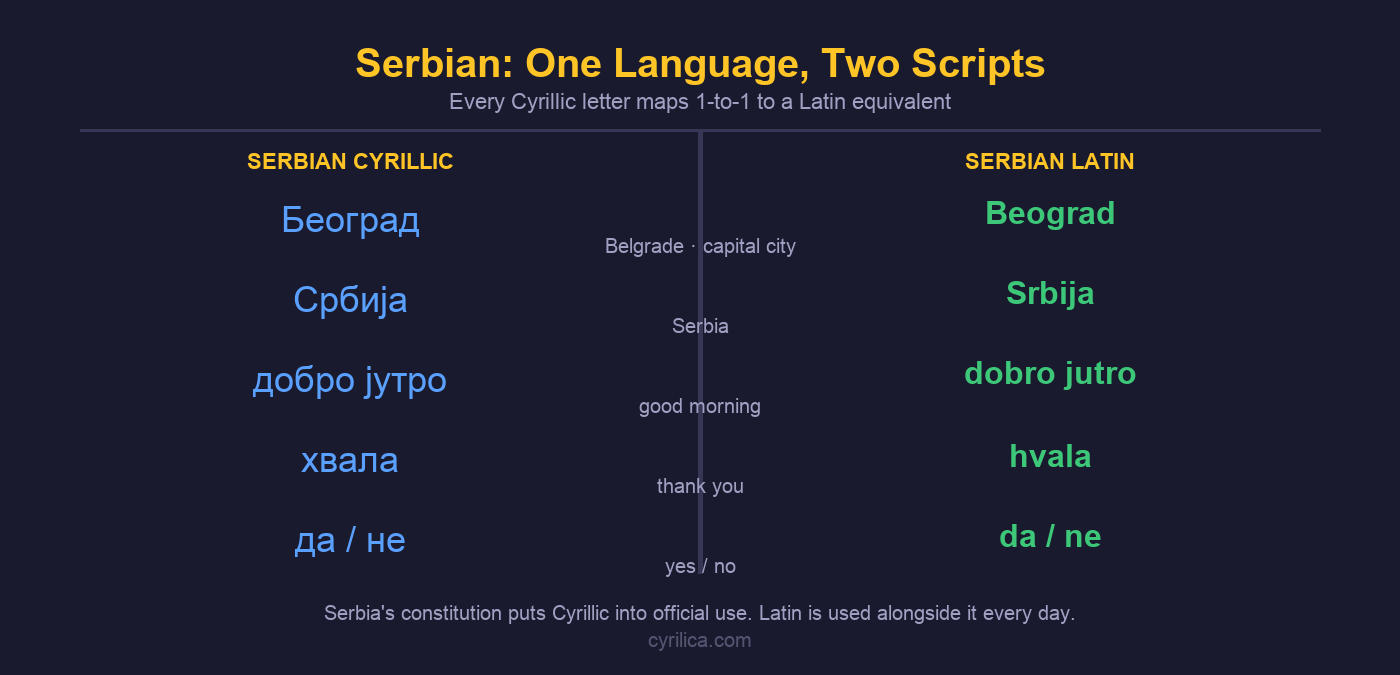
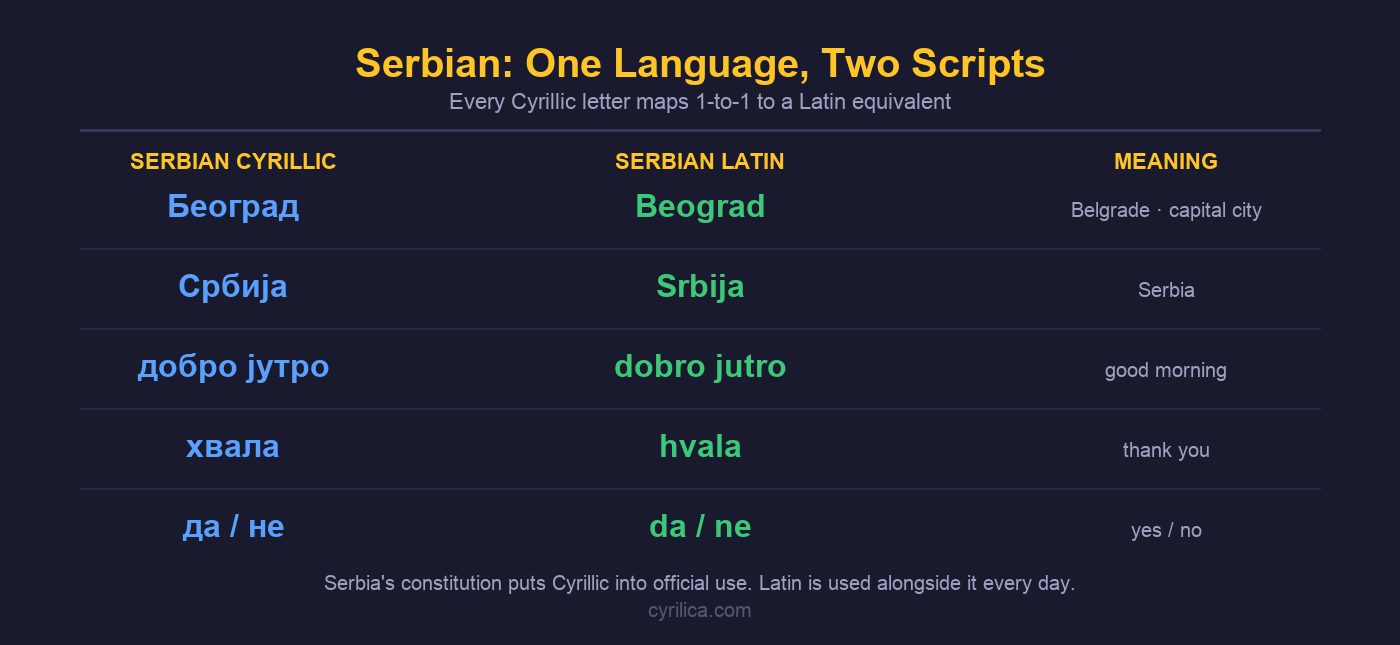
Rebuild Serbian word-pairs image on shared baselines
Three defects in one image, all of them geometry. Each of the three elements
in a row was positioned from a different reference point, and none of them
was a baseline.

- The English meaning sat 21px below the word baseline on every row, about
  half the 80px row pitch, because it was placed below a constant taken from
  the ink height of "Београд".
- The vertical divider ran x 698 to 702 down the whole rows block, a 162px
  unbroken run, and every meaning was centred at x 700. All five crossed it.
- The Latin sat 5 to 8px above the Cyrillic, and the amount changed between
  rows. The old code centred the Latin's ink box inside that same constant,
  and the correction depends on each Latin string's own ascenders and
  descenders, so the Latin column's baseline shifted 3px between row 3 and
  row 4 independently of the Cyrillic.

Rebuilt as three columns, Serbian Cyrillic | Serbian Latin | meaning, with
one shared baseline per row via layout.baseline_row. Measured on the
rendered PNG, all three elements now land on the identical pixel row in
every row: spread 0px throughout, against 8 and 21 before. The divider is
gone; rows are separated by a faint rule that sits in the gap between them,
and no glyph touches one. The longest vertical run of line-coloured pixels
in the rows block falls from 162px to 17px, which is antialiased text stem
rather than a line.

Both word columns are now Arial Bold 32px. One font file for the two scripts
[…]

diff --git a/js/core.js b/js/core.js
@@ -442,7 +442,7 @@ const ARTICLE_META = {
     'bulgarian-alphabet':       { section: 'Alphabet Variants',         published: '2026-05-23', modified: '2026-09-28', keywords: ['bulgarian alphabet', 'bulgarian cyrillic', '30 letters', 'cyrillic origin', 'bulgarian letters', 'learn bulgarian'] },
     'montenegrin-alphabet':     { section: 'Alphabet Variants',         published: '2026-02-22', modified: '2026-09-18', keywords: ['montenegrin alphabet', 'newest cyrillic', 'montenegrin language', 'balkan alphabet'] },
     'cyrillic-letters-not-in-russian': { section: 'Alphabet Variants',         published: '2026-06-21', modified: '2026-09-20', keywords: ['cyrillic letters not in russian', 'non-russian cyrillic', 'ukrainian serbian macedonian letters', 'cyrillic alphabet differences'] },
-    'serbian-cyrillic-vs-latin':{ section: 'Alphabet Variants',         published: '2026-02-24', modified: '2026-09-25', keywords: ['serbian cyrillic', 'serbian latin', 'digraphia', 'dual script'] },
+    'serbian-cyrillic-vs-latin':{ section: 'Alphabet Variants',         published: '2026-02-24', modified: '2026-09-28', keywords: ['serbian cyrillic', 'serbian latin', 'digraphia', 'dual script'] },
     // History & Culture
     'lost-letters':             { section: 'History & Culture',         published: '2026-02-16', modified: '2026-09-20', keywords: ['lost letters', 'extinct characters', 'cyrillic history', 'old church slavonic'] },
     'glagolitic':               { section: 'History & Culture',         published: '2026-02-16', modified: '2026-09-18', keywords: ['glagolitic', 'old alphabet', 'saints cyril methodius', 'slavic writing'] },

diff --git a/js/articles.js b/js/articles.js
@@ -2564,7 +2564,7 @@ const ARTICLES = [
                 <img src="/images/serbian-cyrillic-vs-latin.png"
                      alt="Serbian Cyrillic and Latin script side-by-side comparison showing common words: Београд/Beograd, Србија/Srbija, добро јутро/dobro jutro, хвала/hvala"
                      style="max-width: 600px; width: 100%;"
-                     width="1400" height="675"
+                     width="1400" height="645"
                      loading="lazy">
             </figure>
 

diff --git a/scripts/images/make_serbian_image.py b/scripts/images/make_serbian_image.py
@@ -2,6 +2,8 @@ import os
 
 from PIL import Image, ImageDraw, ImageFont
 
+import layout
+
 # Repo root, resolved from this file so the script runs from any directory.
 ROOT = os.path.dirname(os.path.dirname(os.path.dirname(os.path.abspath(__file__))))
 
@@ -13,21 +15,21 @@ BG        = (26, 26, 46)
 GOLD      = (255, 196, 37)
 CYR_COL   = (90, 160, 255)
 LAT_COL   = (60, 200, 120)
-WHITE     = (255, 255, 255)
 SUBTEXT   = (160, 160, 195)
 DIVIDER   = (55, 55, 85)
+ROW_RULE  = (40, 40, 66)     # fainter than DIVIDER, sits in the gap between rows
 WATERMARK = (85, 85, 115)
 
 SUPP = "/System/Library/Fonts/Supplemental/"
-UNI  = "/Library/Fonts/Arial Unicode.ttf"
 
-font_title   = ImageFont.truetype(SUPP + "Arial Bold.ttf",  20 * SCALE)
-font_sub     = ImageFont.truetype(SUPP + "Arial.ttf",       11 * SCALE)
-font_col_hdr = ImageFont.truetype(SUPP + "Arial Bold.ttf",  11 * SCALE)
-font_cyril   = ImageFont.truetype(UNI,                       18 * SCALE)
-font_latin   = ImageFont.truetype(SUPP + "Arial Bold.ttf",  16 * SCALE)
-font_meaning = ImageFont.truetype(SUPP + "Arial.ttf",       10 * SCALE)
-font_wm      = ImageFont.truetype(SUPP + "Arial.ttf",       10 * SCALE)
+font_title   = ImageFont.truetype(SUPP + "Arial Bold.ttf", 20 * SCALE)
+font_sub     = ImageFont.truetype(SUPP + "Arial.ttf",      11 * SCALE)
+font_col_hdr = ImageFont.truetype(SUPP + "Arial Bold.ttf", 11 * SCALE)
+# One font file for both word columns, so the two scripts share metrics exactly
+# instead of being reconciled by an offset, which is what drifted before.
+font_word    = ImageFont.truetype(SUPP + "Arial Bold.ttf", 16 * SCALE)
+font_meaning = ImageFont.truetype(SUPP + "Arial.ttf",      10 * SCALE)
+font_wm      = ImageFont.truetype(SUPP + "Arial.ttf",      10 * SCALE)
 
 # (Cyrillic, Latin, English meaning)
 pairs = [
@@ -46,29 +48,25 @@ def text_h(text, font):
     bb = _d.textbbox((0, 0), text, font=font)
     return bb[3] - bb[1]
 
-def text_w(text, font):
-    bb = _d.textbbox((0, 0), text, font=font)
-    return bb[2] - bb[0]
-
 # ── vertical layout ────────────────────────────────────────────────
-PAD          = 20 * SCALE
-TITLE_Y      = PAD
-title_h      = text_h("Serbian", font_title)
-SUB_Y        = TITLE_Y + title_h + 10 * SCALE   # 10px breathing room
-sub_h        = text_h("sub", font_sub)
-HDR_DIV_Y    = SUB_Y + sub_h + 12 * SCALE
-COL_HDR_Y    = HDR_DIV_Y + 10 * SCALE
-col_hdr_h    = text_h("CYRILLIC", font_col_hdr)
+PAD       = 20 * SCALE
+TITLE_Y   = PAD
+SUB_Y     = TITLE_Y + text_h("Serbian", font_title) + 10 * SCALE
+HDR_DIV_Y = SUB_Y + text_h("sub", font_sub) + 12 * SCALE
+COL_HDR_Y = HDR_DIV_Y + 10 * SCALE
 
-WORD_H       = text_h("Београд", font_cyril)
-MEAN_H       = text_h("meaning", font_meaning)
-ROW_H        = WORD_H + 4 * SCALE + MEAN_H   # word + gap + meaning
-ROW_GAP      = 10 * SCALE
-ROWS_START_Y = COL_HDR_Y + col_hdr_h + 14 * SCALE
+# Rows sit on shared baselines, so the pitch comes from how far the row's ink
+# actually reaches either side of the baseline, not from a sample string.
+ROW_ITEMS = ([(c, font_word) for c, _, _ in pairs]
+             + [(l, font_word) for _, l, _ in pairs]
+             + [(m, font_meaning) for _, _, m in pairs])
+ABOVE, BELOW = layout.row_extent(_d, ROW_ITEMS)
 
-rows_total_h = len(pairs) * ROW_H + (len(pairs) - 1) * ROW_GAP
+PITCH        = 40 * SCALE
+FIRST_BASE_Y = COL_HDR_Y + text_h("CYRILLIC", font_col_hdr) + 14 * SCALE + ABOVE
+LAST_BASE_Y  = FIRST_BASE_Y + (len(pairs) - 1) * PITCH
 
-NOTE_Y = ROWS_START_Y + rows_total_h + 14 * SCALE
+NOTE_Y = LAST_BASE_Y + BELOW + 14 * SCALE
 WM_Y   = NOTE_Y + text_h("note", font_meaning) + 6 * SCALE
 H      = WM_Y + text_h("cyrilica.com", font_wm) + 14 * SCALE
 
@@ -79,9 +77,7 @@ def cx(text, font, x_center):
     bb = draw.textbbox((0, 0), text, font=font)
     return x_center - (bb[2] - bb[0]) // 2
 
-mid_x   = W // 2
-col_cyr = W // 4
-col_lat = 3 * W // 4
+col_cyr, col_lat, col_mean = W // 6, W // 2, 5 * W // 6
 
 # ── draw ───────────────────────────────────────────────────────────
 draw.text((cx("Serbian: One Language, Two Scripts", font_title, W // 2), TITLE_Y),
@@ -91,20 +87,20 @@ draw.text((cx("Every Cyrillic letter maps 1-to-1 to a Latin equivalent", font_su
           "Every Cyrillic letter maps 1-to-1 to a Latin equivalent", font=font_sub, fill=SUBTEXT)
 
 draw.rectangle([(40 * SCALE, HDR_DIV_Y), (W - 40 * SCALE, HDR_DIV_Y + SCALE)], fill=DIVIDER)
-draw.rectangle([(mid_x - SCALE, HDR_DIV_Y), (mid_x + SCALE, ROWS_START_Y + rows_total_h)], fill=DIVIDER)
 
-draw.text((cx("SERBIAN CYRILLIC", font_col_hdr, col_cyr), COL_HDR_Y),
-          "SERBIAN CYRILLIC", font=font_col_hdr, fill=GOLD)
-draw.text((cx("SERBIAN LATIN", font_col_hdr, col_lat), COL_HDR_Y),
-          "SERBIAN LATIN", font=font_col_hdr, fill=GOLD)
+for label, x in [("SERBIAN CYRILLIC", col_cyr), ("SERBIAN LATIN", col_lat), ("MEANING", col_mean)]:
+    draw.text((cx(label, font_col_hdr, x), COL_HDR_Y), label, font=font_col_hdr, fill=GOLD)
 
 for i, (cyr, lat, meaning) in enumerate(pairs):
-    y = ROWS_START_Y + i * (ROW_H + ROW_GAP)
-    draw.text((cx(cyr, font_cyril, col_cyr), y), cyr, font=font_cyril, fill=CYR_COL)
-    draw.text((cx(lat, font_latin, col_lat), y + (WORD_H - text_h(lat, font_latin)) // 2),
-              lat, font=font_latin, fill=LAT_COL)
-    draw.text((cx(meaning, font_meaning, W // 2), y + WORD_H + 4 * SCALE),
-              meaning, font=font_meaning, fill=SUBTEXT)
+    baseline = FIRST_BASE_Y + i * PITCH
+    if i:   # a faint rule in the gap above this row, never through any text
+        rule_y = baseline - ABOVE - (PITCH - ABOVE - BELOW) // 2
+        draw.rectangle([(40 * SCALE, rule_y), (W - 40 * SCALE, rule_y + SCALE - 1)], fill=ROW_RULE)
+    layout.baseline_row(draw, baseline, [
+        (cyr,     font_word,    CYR_COL, col_cyr),
+        (lat,     font_word,    LAT_COL, col_lat),
+        (meaning, font_meaning, SUBTEXT, col_mean),
+    ])
 
 note = "Serbia's constitution puts Cyrillic into official use. Latin is used alongside it every day."
 draw.text((cx(note, font_meaning, W // 2), NOTE_Y), note, font=font_meaning, fill=SUBTEXT)
